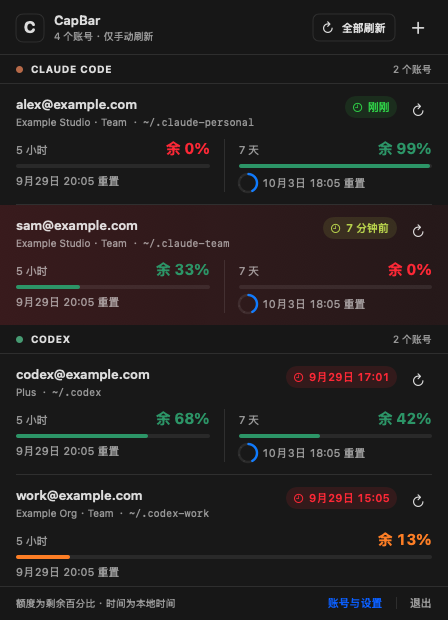
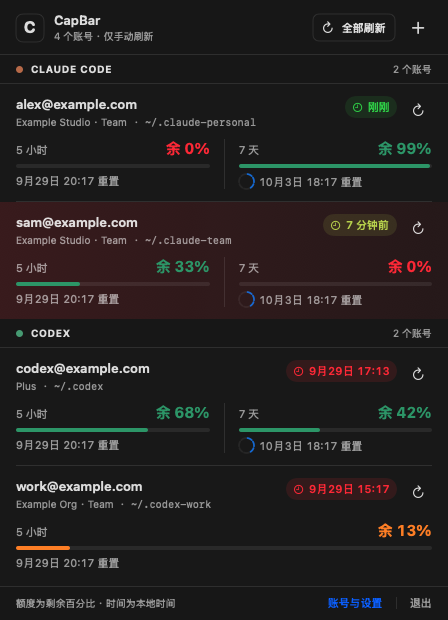
Refine weekly reset ring proportions

diff --git a/Sources/CapBarCore/UI/PopoverView.swift b/Sources/CapBarCore/UI/PopoverView.swift
@@ -246,7 +246,7 @@ private struct CapBarAccountRow: View {
                 .font(.system(size: 13, weight: .semibold))
                 .lineLimit(1)
                 .help(row.title)
-            HStack(spacing: 5) {
+            HStack(spacing: 6) {
                 Text(row.subtitle).lineLimit(1)
                 Text("·")
                 Text(row.directoryLabel).lineLimit(1)
@@ -374,18 +374,18 @@ private struct SevenDayResetRing: View {
     var body: some View {
         ZStack {
             ForEach(0..<7, id: \.self) { segment in
-                let start = Double(segment) / 7 + 0.009
-                let end = Double(segment + 1) / 7 - 0.009
+                let start = Double(segment) / 7 + 0.02
+                let end = Double(segment + 1) / 7 - 0.02
                 Circle().trim(from: start, to: end)
-                    .stroke(Color(nsColor: .separatorColor).opacity(0.8), style: StrokeStyle(lineWidth: 2.4, lineCap: .round))
+                    .stroke(Color(nsColor: .separatorColor).opacity(0.65), style: StrokeStyle(lineWidth: 1.7, lineCap: .round))
                 if progress > start {
                     Circle().trim(from: start, to: min(end, progress))
-                        .stroke(Color(nsColor: .systemBlue), style: StrokeStyle(lineWidth: 2.4, lineCap: .round))
+                        .stroke(Color(nsColor: .systemBlue).opacity(0.8), style: StrokeStyle(lineWidth: 1.7, lineCap: .round))
                 }
             }
         }
         .rotationEffect(.degrees(-90))
-        .frame(width: 18, height: 18)
+        .frame(width: 15, height: 15)
         .animation(.easeInOut(duration: 0.35), value: progress)
         .accessibilityElement(children: .ignore)
         .accessibilityLabel("七日重置周期已过 \(Int((progress * 100).rounded()))%")

diff --git a/design/reset-visual-study.html b/design/reset-visual-study.html
@@ -78,10 +78,10 @@
     .reset strong { color: var(--ink); font-size: 10px; font-weight: 680; }
     .reset .muted { color: var(--muted); font-weight: 500; }
     .metric.five .reset strong { color: var(--muted); font-weight: 500; }
-    .ring { width: 18px; height: 18px; flex: none; transform: rotate(-90deg); }
-    .ring circle { fill: none; stroke-width: 2.4; }
+    .ring { width: 15px; height: 15px; flex: none; transform: rotate(-90deg); }
+    .ring circle { fill: none; stroke-width: 2.2; }
     .ring .ring-track { stroke: var(--track); }
-    .ring .ring-fill { stroke: var(--blue); stroke-linecap: round; transition: stroke-dashoffset .1s linear; }
+    .ring .ring-fill { stroke: var(--blue); stroke-linecap: round; opacity: .8; transition: stroke-dashoffset .1s linear; }
     .ring .ring-tick { stroke: var(--card); stroke-width: 1.1; }
     .variant .account.past .metric.week .metric-heading strong, .variant .account.past .metric.week .quota-fill { opacity: .55; }
     .variant .account.past .metric.week .ring { visibility: hidden; }
